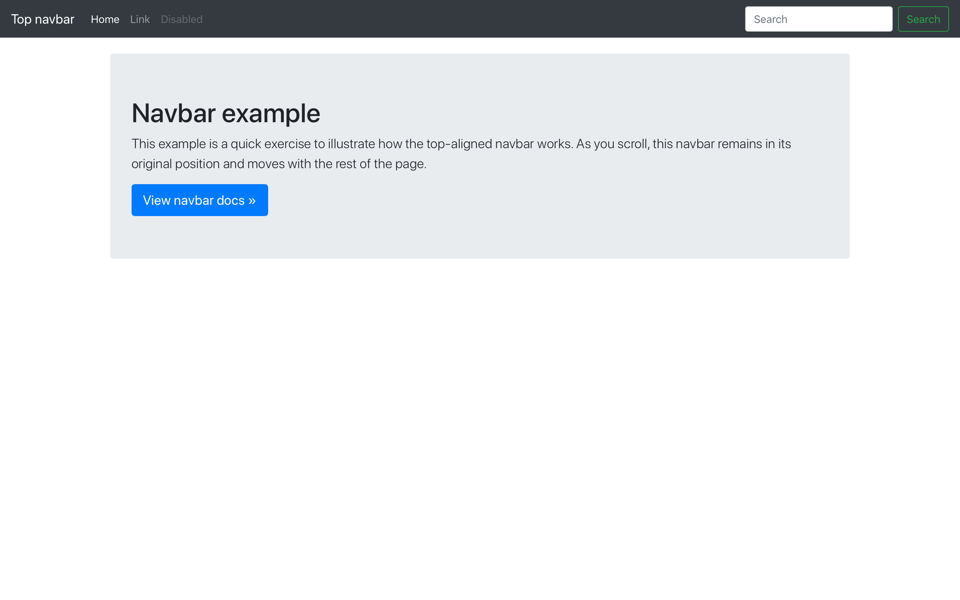
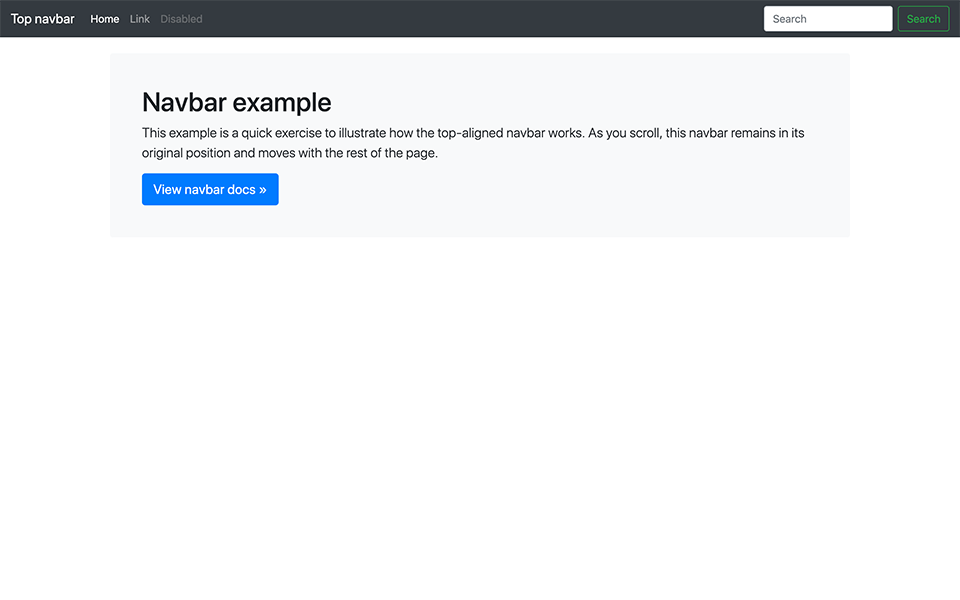
Removal of one of the most iconic components of Bootstrap: the jumbotron
BS5 commits: 2ac2a5a91e2958a367c46a61d05162f640457db5

diff --git a/site/content/docs/4.3/examples/album/index.html b/site/content/docs/4.3/examples/album/index.html
@@ -1,8 +1,6 @@
 ---
 layout: examples
 title: Album example
-extra_css:
-  - "album.css"
 ---
 
 <header>
@@ -39,14 +37,16 @@ extra_css:
 
 <main role="main">
 
-  <section class="jumbotron text-center">
-    <div class="container">
-      <h1>Album example</h1>
-      <p class="lead text-muted">Something short and leading about the collection below—its contents, the creator, etc. Make it short and sweet, but not too short so folks don’t simply skip over it entirely.</p>
-      <p>
-        <a href="#" class="btn btn-primary my-2">Main call to action</a>
-        <a href="#" class="btn btn-secondary my-2">Secondary action</a>
-      </p>
+  <section class="py-5 text-center container">
+    <div class="row py-lg-5">
+      <div class="col-lg-6 col-md-8 mx-auto">
+        <h1 class="font-weight-light">Album example</h1>
+        <p class="lead text-muted">Something short and leading about the collection below—its contents, the creator, etc. Make it short and sweet, but not too short so folks don’t simply skip over it entirely.</p>
+        <p>
+          <a href="#" class="btn btn-primary my-2">Main call to action</a>
+          <a href="#" class="btn btn-secondary my-2">Secondary action</a>
+        </p>
+      </div>
     </div>
   </section>
 
@@ -197,12 +197,12 @@ extra_css:
 
 </main>
 
-<footer class="text-muted">
+<footer class="text-muted py-5">
   <div class="container">
-    <p class="float-right">
+    <p class="float-right mb-1">
       <a href="#">Back to top</a>
     </p>
-    <p>Album example is &copy; Bootstrap, but please download and customize it for yourself!</p>
-    <p>New to Bootstrap? <a href="/">Visit the homepage</a> or read our <a href="{{< docsref "/getting-started/introduction" >}}">getting started guide</a>.</p>
+    <p class="mb-1">Album example is &copy; Bootstrap, but please download and customize it for yourself!</p>
+    <p class="mb-0">New to Bootstrap? <a href="/">Visit the homepage</a> or read our <a href="{{< docsref "/getting-started/introduction" >}}">getting started guide</a>.</p>
   </div>
 </footer>

diff --git a/site/content/docs/4.3/examples/navbars/index.html b/site/content/docs/4.3/examples/navbars/index.html
@@ -310,7 +310,7 @@ extra_css:
   </nav>
 
   <main role="main">
-    <div class="jumbotron">
+    <div class="bg-light p-5 rounded">
       <div class="col-sm-8 mx-auto">
         <h1>Navbar examples</h1>
         <p>This example is a quick exercise to illustrate how the navbar and its contents work. Some navbars extend the width of the viewport, others are confined within a <code>.container</code>. For positioning of navbars, checkout the <a href="{{< docsref "/examples/navbar-static" >}}">top</a> and <a href="{{< docsref "/examples/navbar-fixed" >}}">fixed top</a> examples.</p>

diff --git a/site/content/docs/4.3/examples/navbar-static/index.html b/site/content/docs/4.3/examples/navbar-static/index.html
@@ -30,7 +30,7 @@ extra_css:
 </nav>
 
 <main role="main" class="container">
-  <div class="jumbotron">
+  <div class="bg-light p-5 rounded">
     <h1>Navbar example</h1>
     <p class="lead">This example is a quick exercise to illustrate how the top-aligned navbar works. As you scroll, this navbar remains in its original position and moves with the rest of the page.</p>
     <a class="btn btn-lg btn-primary" href="{{< docsref "/components/navbar" >}}" role="button">View navbar docs &raquo;</a>

diff --git a/site/content/docs/4.3/examples/navbar-fixed/index.html b/site/content/docs/4.3/examples/navbar-fixed/index.html
@@ -30,7 +30,7 @@ extra_css:
 </nav>
 
 <main role="main" class="container">
-  <div class="jumbotron">
+  <div class="bg-light p-5 rounded">
     <h1>Navbar example</h1>
     <p class="lead">This example is a quick exercise to illustrate how fixed to top navbar works. As you scroll, it will remain fixed to the top of your browser’s viewport.</p>
     <a class="btn btn-lg btn-primary" href="{{< docsref "/components/navbar" >}}" role="button">View navbar docs &raquo;</a>

diff --git a/scss/todc-bootstrap.scss b/scss/todc-bootstrap.scss
@@ -35,7 +35,6 @@
 @import "../bootstrap/scss/breadcrumb";
 @import "../bootstrap/scss/pagination";
 @import "../bootstrap/scss/badge";
-@import "../bootstrap/scss/jumbotron";
 @import "../bootstrap/scss/alert";
 @import "../bootstrap/scss/progress";
 @import "../bootstrap/scss/list-group";
@@ -93,7 +92,6 @@
 @import "breadcrumb";
 // @import "pagination";
 // @import "badge";
-// @import "jumbotron";
 @import "alert";
 @import "progress";
 // @import "list-group";

diff --git a/site/content/docs/4.3/examples/navbar-bottom/index.html b/site/content/docs/4.3/examples/navbar-bottom/index.html
@@ -4,7 +4,7 @@ title: Bottom navbar example
 ---
 
 <div class="container">
-  <div class="jumbotron mt-3">
+  <div class="bg-light p-5 rounded mt-3">
     <h1>Bottom Navbar example</h1>
     <p class="lead">This example is a quick exercise to illustrate how the bottom navbar works.</p>
     <a class="btn btn-lg btn-primary" href="{{< docsref "/components/navbar" >}}" role="button">View navbar docs &raquo;</a>

diff --git a/scss/_variables.scss b/scss/_variables.scss
@@ -1093,13 +1093,6 @@ $pagination-disabled-bg:            $white !default;
 $pagination-disabled-border-color:  transparent !default;
 
 
-// Jumbotron
-
-$jumbotron-padding:                 2rem !default;
-$jumbotron-color:                   null !default;
-$jumbotron-bg:                      $gray-200 !default;
-
-
 // Cards
 
 $card-spacer-y:                     1rem !default;

diff --git a/site/content/docs/4.3/migration.md b/site/content/docs/4.3/migration.md
@@ -77,6 +77,10 @@ Badges were overhauled to better differentiate themselves from buttons and to be
 - **Todo:** Removed `.badge-pill` for the `.rounded-pill` utility class
 - **Todo:** Removed badge's hover and focus styles for `a.badge` and `button.badge`.
 
+### Jumbotron
+
+- The jumbotron component is removed in favor of utility classes like `.bg-light` for the background color and `.p-*` classes to control padding.
+
 ### Popovers
 
 - Renamed `.arrow` to `.popover-arrow`
